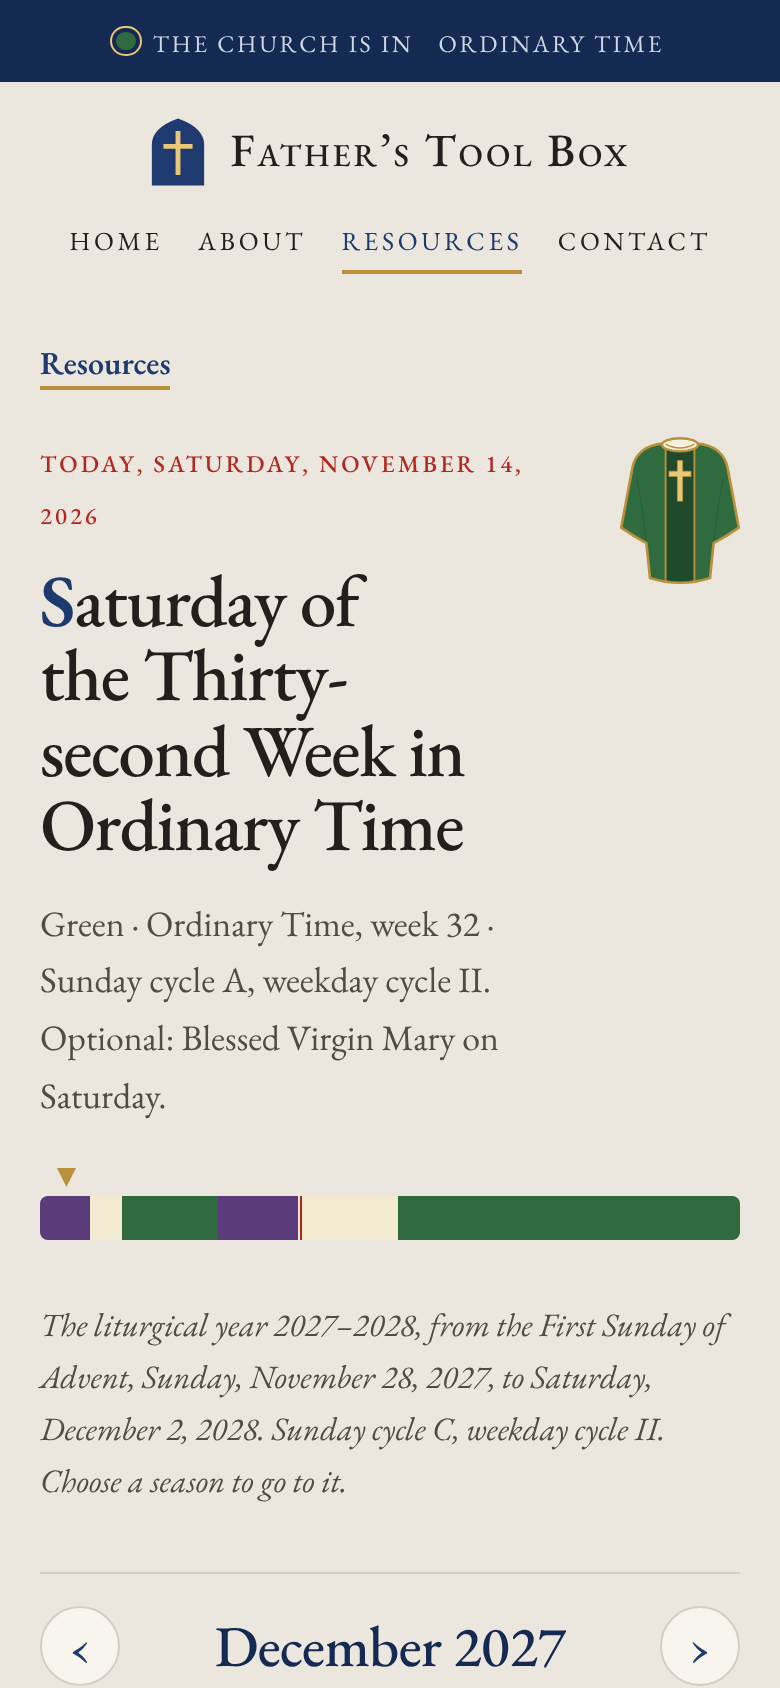
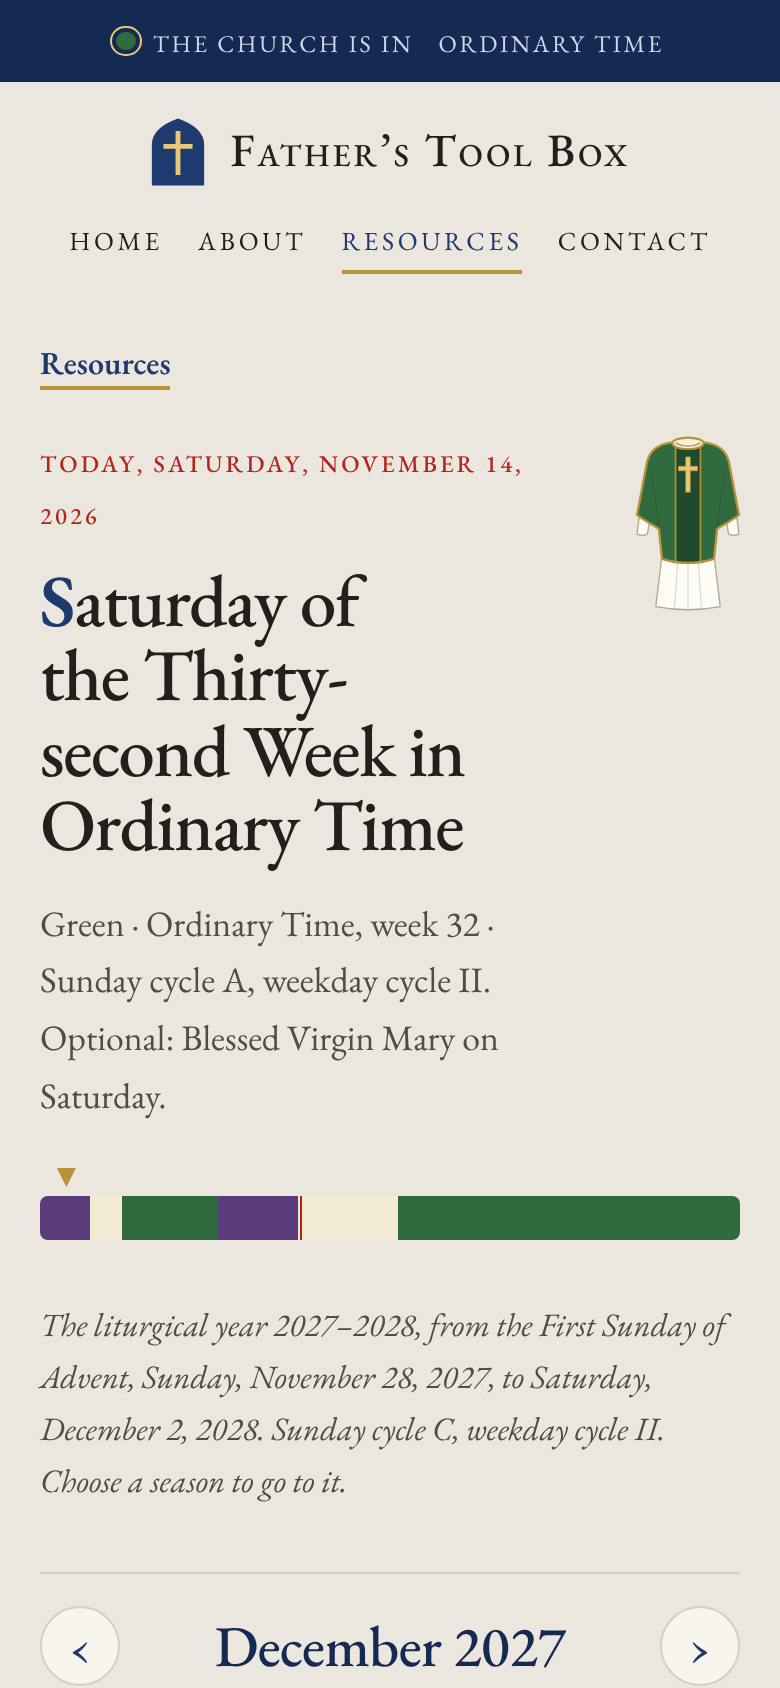
Calendar: show the chasuble worn over an alb
Claude-Session: https://claude.ai/code/session_015jS7JKAp3CZe6ACt2UcUxv

Changed region(s): [[0.8, 0.2464, 0.9538, 0.3697]]

diff --git a/public/calendar/calendar.css b/public/calendar/calendar.css
@@ -18,13 +18,15 @@
 .lc-today-meta{margin:1rem 0 0;color:var(--ink-soft);font-size:clamp(1.12rem,1.5vw,1.3rem);max-width:40em}
 /* A chasuble in the color of the day */
 /* A Gothic chasuble in the color of the day: column orphrey with a cross, gold trim */
-.lc-chasuble{flex:none;width:96px;height:auto;margin-bottom:.2rem;overflow:visible;--ch:var(--green);--ch-col:#1f4a2b;--ch-cross:var(--gold-lit)}
+.lc-chasuble{flex:none;width:88px;height:auto;margin-bottom:.2rem;overflow:visible;--ch:var(--green);--ch-col:#1f4a2b;--ch-cross:var(--gold-lit)}
 .lc-chasuble.c-white{--ch:#f6f0e0;--ch-col:#c9a24a;--ch-cross:#fbf7ec;box-shadow:none;background:none}
 .lc-chasuble.c-red{--ch:var(--red);--ch-col:#7d1913}
 .lc-chasuble.c-violet{--ch:var(--violet);--ch-col:#3d2654}
 .lc-chasuble.c-rose{--ch:var(--lc-rose);--ch-col:#a95a72}
 .lc-chasuble.c-black{--ch:var(--lc-black);--ch-col:#141210}
 .lc-chasuble[class*=" c-"]{background:none}
+.lc-chasuble .ch-alb{fill:#fdfbf5;stroke:#b5a88f;stroke-width:1.3;stroke-linejoin:round}
+.lc-chasuble .ch-alb-fold{fill:none;stroke:rgba(120,108,88,.28);stroke-width:1}
 .lc-chasuble .ch-body{fill:var(--ch)}
 .lc-chasuble .ch-col{fill:var(--ch-col)}
 .lc-chasuble .ch-edge{stroke:var(--gold);stroke-width:1.6;fill:none}
@@ -160,7 +162,7 @@
 @media (max-width:760px){
   #lc .wrap{padding-top:1.2rem}
   .lc-today{align-items:flex-start}
-  .lc-chasuble{width:60px}
+  .lc-chasuble{width:52px}
   .lc-main{grid-template-columns:1fr}
   .lc-detail{position:static;order:-1}
   .lc-row{display:block}

diff --git a/public/calendar/index.html b/public/calendar/index.html
@@ -32,7 +32,10 @@
       <h1 id="lc-today-title">The liturgical calendar for the United States</h1>
       <p class="lc-today-meta" id="lc-today-meta">Solemnities, feasts and memorials, liturgical colors, seasons and cycles, for any year.</p>
     </div>
-    <svg class="lc-chasuble c-green" id="lc-today-color" viewBox="0 0 100 128" aria-hidden="true">
+    <svg class="lc-chasuble c-green" id="lc-today-color" viewBox="0 0 100 172" aria-hidden="true">
+      <path class="ch-alb" d="M27 100L19 166Q50 172 81 166L73 100Z"/>
+      <path class="ch-alb-fold" d="M40 124L37 167M50 124V169M60 124L63 167"/>
+      <path class="ch-alb" d="M3 80L1 96Q6 99 11 96L13 84ZM97 80L99 96Q94 99 89 96L87 84Z"/>
       <defs><clipPath id="lc-ch-clip"><path d="M36 8C22 9 12 16 10 30L1 78Q11 85 22 91L25 120Q50 128 75 120L78 91Q89 85 99 78L90 30C88 16 78 9 64 8Z"/></clipPath></defs>
       <path class="ch-body" d="M36 8C22 9 12 16 10 30L1 78Q11 85 22 91L25 120Q50 128 75 120L78 91Q89 85 99 78L90 30C88 16 78 9 64 8Z"/>
       <path class="ch-fold" d="M22 91Q19 60 14 38M78 91Q81 60 86 38"/>
